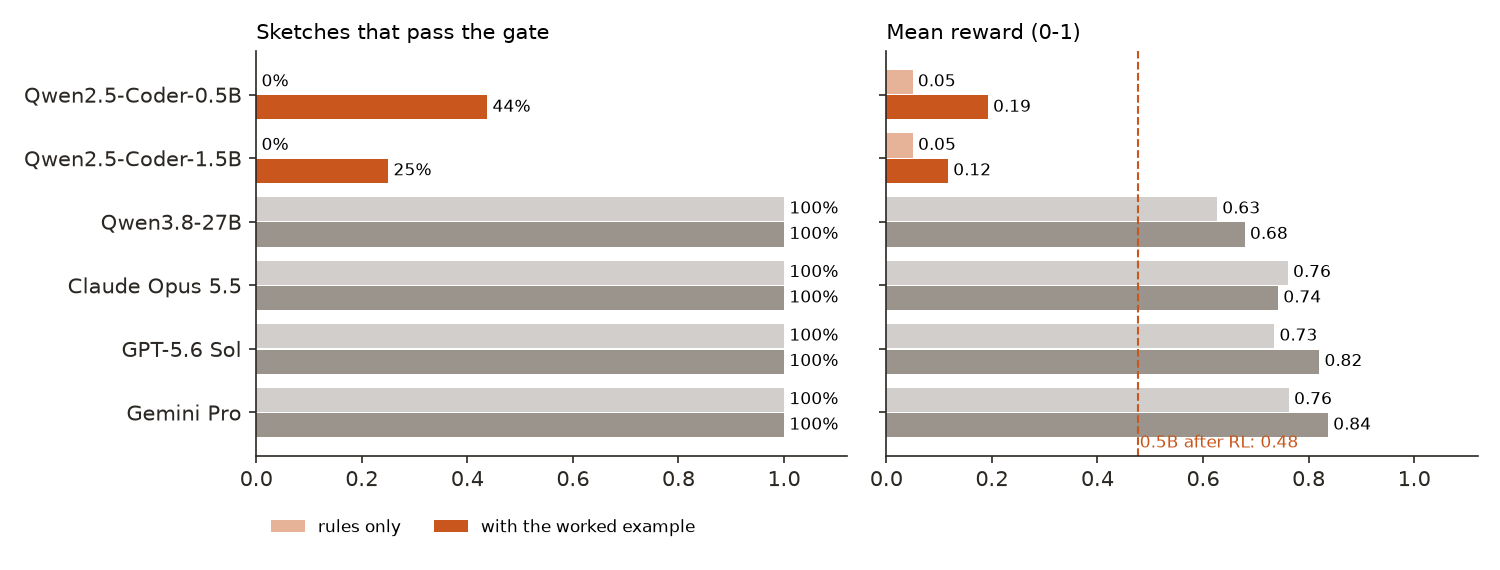
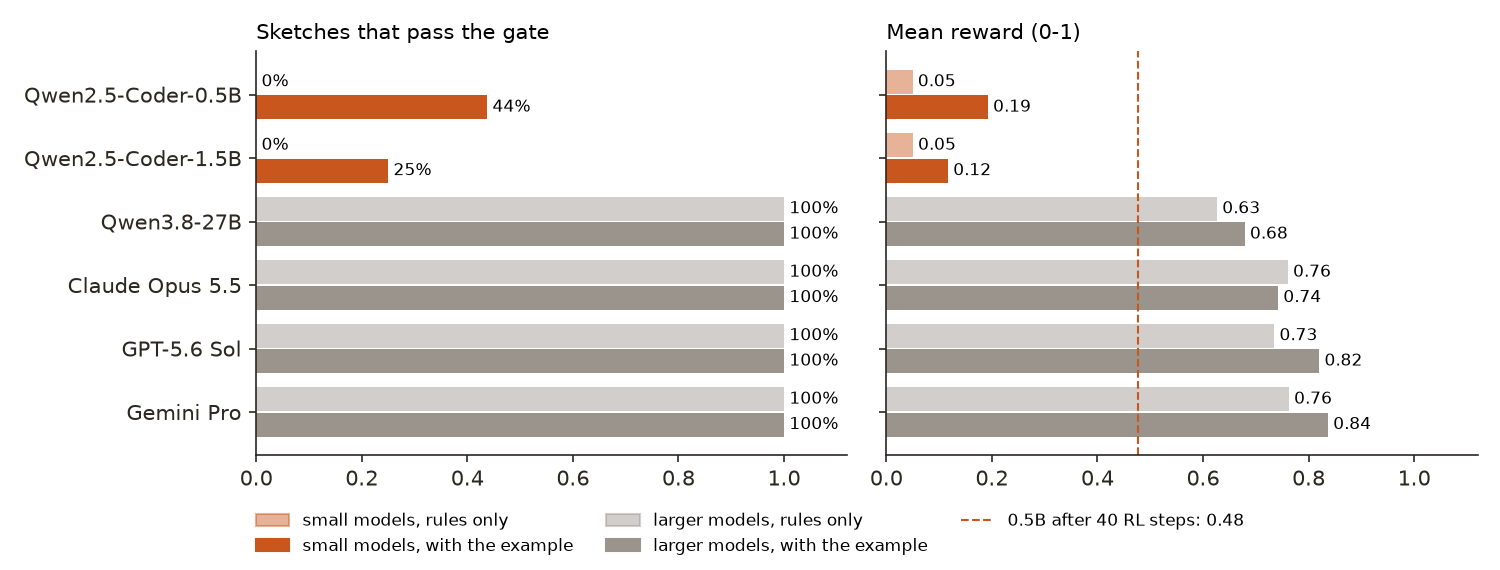
Pigment Gym: Figure 4 legend names every bar colour and the dashed line

diff --git a/experiments/pigment-gym/make_figures.py b/experiments/pigment-gym/make_figures.py
@@ -21,6 +21,8 @@ import matplotlib
 
 matplotlib.use("Agg")
 import matplotlib.pyplot as plt
+from matplotlib.lines import Line2D
+from matplotlib.patches import Patch
 
 HERE = Path(__file__).resolve().parent
 RESULTS = HERE / "results"
@@ -74,11 +76,18 @@ def benchmark() -> None:
         ax.set_xlim(0, 1.12)
         ax.set_title(title, loc="left", fontsize=10)
     axes[1].axvline(0.476, color=EMBER, linestyle="--", linewidth=1)
-    axes[1].text(0.48, 5.55, "0.5B after RL: 0.48", color=EMBER, fontsize=8)
     axes[0].set_yticks(list(y), [name for _, name in models])
     axes[0].invert_yaxis()
-    axes[0].legend(loc="upper left", bbox_to_anchor=(0, -0.12), ncol=2, fontsize=8, frameon=False)
-    fig.tight_layout()
+    # One legend entry per colour: small trained models (orange) and larger untrained ones (grey), pale = rules only.
+    handles = [
+        Patch(color=EMBER, alpha=0.45, label="small models, rules only"),
+        Patch(color=EMBER, label="small models, with the example"),
+        Patch(color=GREY, alpha=0.45, label="larger models, rules only"),
+        Patch(color=GREY, label="larger models, with the example"),
+        Line2D([], [], color=EMBER, linestyle="--", linewidth=1, label="0.5B after 40 RL steps: 0.48"),
+    ]
+    fig.legend(handles=handles, loc="lower center", ncol=3, fontsize=8, frameon=False)
+    fig.tight_layout(rect=(0, 0.1, 1, 1))
     fig.savefig(FIGURES / "benchmark.png")
     print("benchmark.png (gate pass, reward):")
     for m, name in models:
